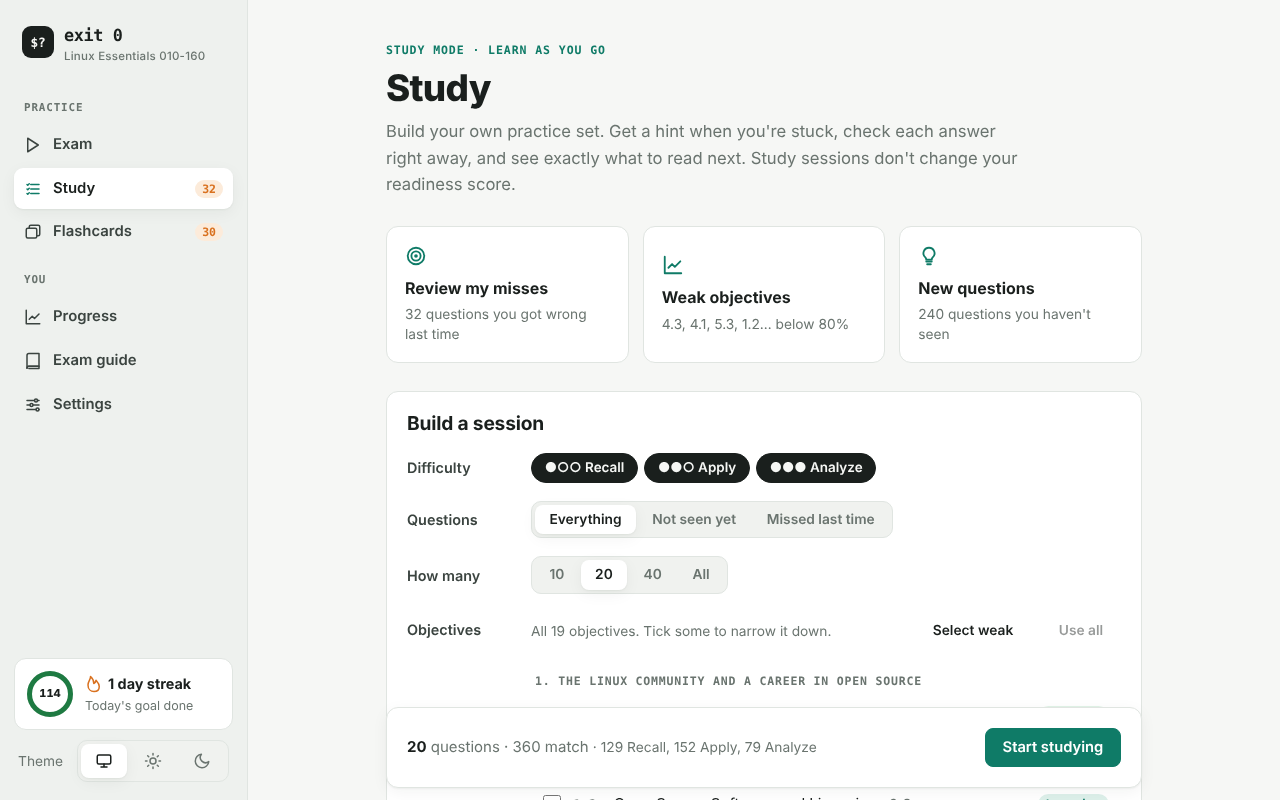
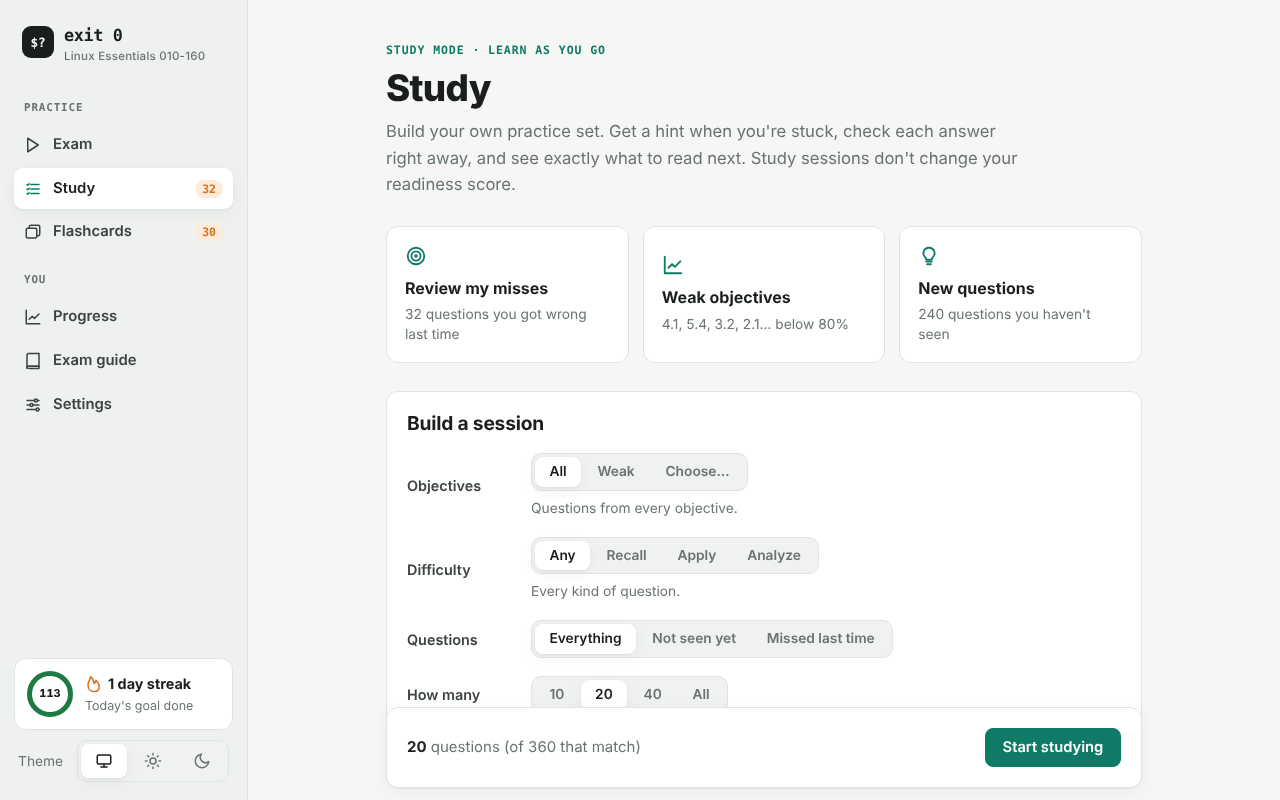
Study: simpler objective and difficulty choices
Objectives: All / Weak / Choose... (the checklist only shows for Choose...).
Difficulty: Any / Recall / Apply / Analyze, with a line explaining the level.

Claude-Session: https://claude.ai/code/session_013buaBu2QZcnxJpMWYwJf9G

diff --git a/docs/js/app.js b/docs/js/app.js
@@ -218,15 +218,23 @@
   }
 
   // ================================================================== STUDY MODE
+  const LEVEL_TEXT = { 0: "Every kind of question.", 1: "Recall: remember a fact, term or definition.",
+    2: "Apply: pick or type the right command, option or setting.", 3: "Analyze: read output, trace a script, work out permissions or globs." };
+  function studyObjs(sp, weak) { return sp.objMode === "weak" ? weak : sp.objMode === "pick" ? sp.objs : []; }
   function renderStudy() {
     const sp = SP(), sel = new Set(sp.objs);
     const os = C.objectiveStats(BANK, st.qstats);
     const missed = C.missedIds(BANK, st.qstats).length;
     const unseen = BANK.questions.filter(q => !(st.qstats[q.id] && st.qstats[q.id].seen)).length;
     const weak = C.weakObjectives(BANK, st.qstats, 19);
-    const pool = C.studyPool(BANK, st.qstats, sp);
+    if (sp.objMode === "weak" && !weak.length) sp.objMode = "all";
+    const objs = studyObjs(sp, weak);
+    const pool = sp.objMode === "pick" && !objs.length ? [] : C.studyPool(BANK, st.qstats, Object.assign({}, sp, { objs }));
     const n = sp.count ? Math.min(sp.count, pool.length) : pool.length;
-    const mix = C.levelMix(BANK, pool);
+    const lv = sp.levels.length === 1 ? sp.levels[0] : 0;
+    const objNote = sp.objMode === "all" ? "Questions from every objective."
+      : sp.objMode === "weak" ? `Your weakest: ${esc(weak.join(", "))}.`
+      : sel.size ? `${plural(sel.size, "objective")} selected.` : "Tick the objectives you want below.";
     shell("study", `${resumeBanner()}
       <div class="page-head"><span class="eyebrow">Study mode · learn as you go</span><h1>Study</h1>
         <p class="lead">Build your own practice set. Get a hint when you're stuck, check each answer right away, and see exactly what to read next. Study sessions don't change your readiness score.</p></div>
@@ -236,28 +244,26 @@
         <button class="qs" data-start="unseen" ${unseen ? "" : "disabled"}>${icon("bulb")}<b>New questions</b><span>${unseen ? plural(unseen, "question") + " you haven't seen" : "You've seen every question"}</span></button>
       </div>
       <div class="card stack builder"><h2>Build a session</h2>
-        <div class="frow"><span class="flabel">Difficulty</span><div class="filters" id="flv">${[1, 2, 3].map(lv => `<button data-lv="${lv}" class="${sp.levels.includes(lv) ? "on" : ""}" aria-pressed="${sp.levels.includes(lv)}" title="${C.LEVELS[lv][1]}">${"●".repeat(lv)}${"○".repeat(3 - lv)} ${C.LEVELS[lv][0]}</button>`).join("")}</div></div>
+        <div class="frow"><span class="flabel">Objectives</span><div><div class="seg" id="fobj">${[["all", "All"], ["weak", "Weak"], ["pick", "Choose…"]].map(([k, l]) =>
+            `<button data-v="${k}" class="${sp.objMode === k ? "on" : ""}" ${k === "weak" && !weak.length ? 'disabled title="No weak objectives yet"' : ""}>${l}</button>`).join("")}</div>
+          <div class="small muted fnote">${objNote}</div></div></div>
+        ${sp.objMode === "pick" ? `<div class="picklist">${objList(os, { select: true, sel })}</div>` : ""}
+        <div class="frow"><span class="flabel">Difficulty</span><div><div class="seg" id="flv">${[[0, "Any"], [1, "Recall"], [2, "Apply"], [3, "Analyze"]].map(([k, l]) =>
+            `<button data-v="${k}" class="${lv === k ? "on" : ""}">${l}</button>`).join("")}</div>
+          <div class="small muted fnote">${LEVEL_TEXT[lv]}</div></div></div>
         <div class="frow"><span class="flabel">Questions</span><div class="seg" id="fsrc">${[["mix", "Everything"], ["unseen", "Not seen yet"], ["missed", "Missed last time"]].map(([k, l]) => `<button data-v="${k}" class="${sp.source === k ? "on" : ""}">${l}</button>`).join("")}</div></div>
         <div class="frow"><span class="flabel">How many</span><div class="seg" id="fcount">${[10, 20, 40, 0].map(v => `<button data-v="${v}" class="${sp.count === v ? "on" : ""}">${v || "All"}</button>`).join("")}</div></div>
-        <div class="frow top"><span class="flabel">Objectives</span><div class="stack grow" style="gap:8px;min-width:0">
-          <div class="row spread"><span class="small muted">${sel.size ? plural(sel.size, "objective") + " selected" : "All 19 objectives. Tick some to narrow it down."}</span>
-            <div class="row"><button class="ghost small" id="selWeak">Select weak</button><button class="ghost small" id="selNone" ${sel.size ? "" : "disabled"}>Use all</button></div></div>
-          ${objList(os, { select: true, sel })}</div></div>
       </div>
-      <div class="card row spread startbar"><span><b>${n}</b> <span class="muted">${n === 1 ? "question" : "questions"} · ${pool.length} match</span>
-          <span class="small muted hide-sm"> · ${[1, 2, 3].filter(lv => mix[lv]).map(lv => mix[lv] + " " + C.LEVELS[lv][0]).join(", ")}</span></span>
+      <div class="card row spread startbar"><span><b>${n}</b> <span class="muted">${n === 1 ? "question" : "questions"}${pool.length > n ? ` (of ${pool.length} that match)` : ""}</span></span>
         <button class="primary" id="sstart" ${n ? "" : "disabled"}>Start studying</button></div>`);
     const keep = fn => { const y = scrollY; fn(); save(); renderStudy(); scrollTo(0, y); };
-    $$("#flv button").forEach(b => b.onclick = () => keep(() => { const lv = +b.dataset.lv;
-      sp.levels = sp.levels.includes(lv) ? sp.levels.filter(x => x !== lv) : sp.levels.concat(lv).sort();
-      if (!sp.levels.length) { sp.levels = [lv]; toast("Keep at least one difficulty"); } }));
+    $$("#fobj button").forEach(b => b.onclick = () => keep(() => { sp.objMode = b.dataset.v; }));
+    $$("#flv button").forEach(b => b.onclick = () => keep(() => { const v = +b.dataset.v; sp.levels = v ? [v] : []; }));
     $$("#fsrc button").forEach(b => b.onclick = () => keep(() => { sp.source = b.dataset.v; }));
     $$("#fcount button").forEach(b => b.onclick = () => keep(() => { sp.count = +b.dataset.v; }));
     $$("[data-obj]").forEach(i => i.onchange = () => keep(() => { const o = i.dataset.obj;
       sp.objs = i.checked ? [...new Set(sp.objs.concat(o))].sort() : sp.objs.filter(x => x !== o); }));
-    $("#selWeak").onclick = () => keep(() => { if (weak.length) sp.objs = weak.slice().sort(); else toast("No weak objectives yet"); });
-    $("#selNone").onclick = () => keep(() => { sp.objs = []; });
-    $("#sstart").onclick = () => startStudy({ objs: sp.objs, levels: sp.levels, source: sp.source, count: sp.count });
+    $("#sstart").onclick = () => startStudy({ objs, levels: sp.levels, source: sp.source, count: sp.count });
     wireResume();
     wireStarts($("#page"));
   }

diff --git a/docs/js/core.js b/docs/js/core.js
@@ -258,14 +258,17 @@
 
   // ------------------------------------------------------------- state
   function freshState() {
-    return { v: 3, settings: { theme: "system", goal: 20, study: { objs: [], levels: [1, 2, 3], source: "mix", count: 20 } },
+    return { v: 3, settings: { theme: "system", goal: 20, study: { objMode: "all", objs: [], levels: [], source: "mix", count: 20 } },
              tests: [], qstats: {}, cards: {}, days: {}, current: null };
   }
   /** Bring older saved data (v2 web page) forward. */
   function migrate(raw, legacy) {
     const st = Object.assign(freshState(), raw || {});
     st.settings = Object.assign(freshState().settings, (raw && raw.settings) || {});
-    st.settings.study = Object.assign(freshState().settings.study, st.settings.study || {});
+    const had = st.settings.study || {};
+    st.settings.study = Object.assign(freshState().settings.study, had);
+    if (!had.objMode) st.settings.study.objMode = had.objs && had.objs.length ? "pick" : "all";
+    if (st.settings.study.levels.length !== 1) st.settings.study.levels = [];   // one level, or all
     delete st.settings.timed; delete st.settings.reveal;    // Exam mode is always timed with answers hidden
     if (!raw && legacy) {
       if (legacy.qstats) st.qstats = legacy.qstats;

diff --git a/tools/test_core.js b/tools/test_core.js
@@ -80,7 +80,9 @@ t("every question has a hint that doesn't contain the answer", () => {
 t("old settings migrate: exam is always timed with answers hidden", () => {
   const st = C.migrate({ settings: { theme: "dark", timed: false, reveal: true } });
   assert.strictEqual(st.settings.theme, "dark"); assert(!("timed" in st.settings)); assert(!("reveal" in st.settings));
-  assert.deepStrictEqual(st.settings.study.levels, [1, 2, 3]);
+  assert.deepStrictEqual(st.settings.study.levels, []); assert.strictEqual(st.settings.study.objMode, "all");
+  const st2 = C.migrate({ settings: { study: { objs: ["2.1"], levels: [1, 2], source: "mix", count: 10 } } });
+  assert.strictEqual(st2.settings.study.objMode, "pick"); assert.deepStrictEqual(st2.settings.study.levels, []);
   const s = C.buildTest(bank, {}, { seed: 1 }); assert(s.deadline && !s.study); assert.strictEqual(s.label, "Exam");
 });
 t("flashcards: unique ids, both decks, Leitner scheduling", () => {

diff --git a/docs/css/styles.css b/docs/css/styles.css
@@ -357,3 +357,6 @@ code.exitcode { background: transparent !important; border: 0 !important; font-w
   .opt .tag { order: 3; width: 100%; margin-left: 40px; padding: 0; }
   .exam-bar .title { max-width: 60%; }
 }
+.fnote { margin-top: 6px; }
+.picklist { margin: -6px 0 0 124px; padding: 4px 0; border-top: 1px solid var(--line); }
+@media (max-width: 560px) { .picklist { margin-left: 0; } }
